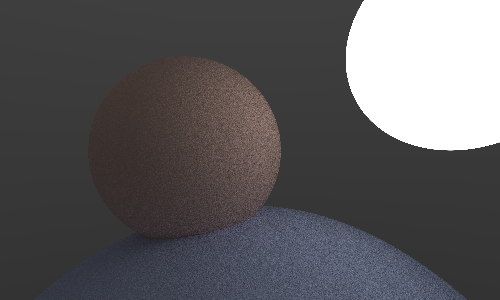
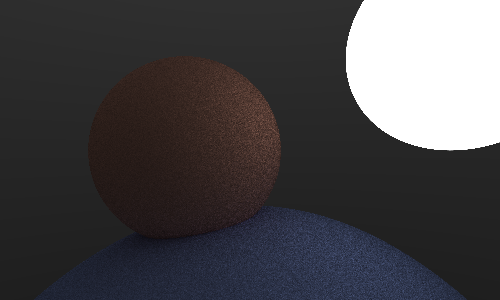
feat: added seconds per frame info; changes for rendering correctness

Changed region(s): [[0.09, 0.18, 0.93, 1.0], [0.21, 0.36, 0.24, 0.39], [0.18, 0.42, 0.21, 0.45]]

diff --git a/RaytraceQtViewer.py b/RaytraceQtViewer.py
@@ -7,8 +7,14 @@ from PIL import Image
 
 from src import Raytrace, Vector, RaycastableObject, Material
 
+class RenderResultT:
+    def __init__(self, pixmap:QPixmap, render_count:int, spf:float):
+        self.pixmap = pixmap
+        self.render_count = render_count
+        self.spf = spf
+
 class RenderWorker(QObject):
-    signal_pixmap = pyqtSignal(QPixmap)
+    signal_render_result = pyqtSignal(RenderResultT)
 
     def __init__(self):
         super().__init__()
@@ -47,8 +53,12 @@ class RenderWorker(QObject):
 
     def run(self):
         self.camera.render()
-        pixmap = self.vector_matrix2pixmap(self.camera.get_img(0.5))
-        self.signal_pixmap.emit(pixmap)
+        pixmap = self.vector_matrix2pixmap(self.camera.get_img())
+        self.signal_render_result.emit(RenderResultT(
+            pixmap,
+            self.camera.render_count,
+            sum(self.camera.render_time) / self.camera.render_count
+        ))
         if not self._stop:
             self.run()
 
@@ -78,18 +88,16 @@ class QtViewer(QWidget):
         self.thread = QThread()
         self.worker = RenderWorker()
         self.worker.moveToThread(self.thread)
-        self.worker.signal_pixmap.connect(self.display)
+        self.worker.signal_render_result.connect(self.display_result)
         self.thread.started.connect(self.worker.run)
         self.thread.start()
 
-        self.render_count = 0
         self.img = QPixmap()
 
-    def display(self, img):
-        self.render_count += 1
-        self.label_render_count.setText(f"Render count: {self.render_count}")
-        self.img = img
-        self.canvas.setPixmap(img)
+    def display_result(self, render_result:RenderResultT):
+        self.label_render_count.setText(f"Render count: {render_result.render_count}; Avg spf: {'%.2f'%render_result.spf}")
+        self.img = render_result.pixmap
+        self.canvas.setPixmap(render_result.pixmap)
 
     def save(self):
         self.img.save("output.png")

diff --git a/src/Raytrace.py b/src/Raytrace.py
@@ -1,4 +1,4 @@
-import math, random, typing
+import math, random, time, typing
 from . import Ray, RaycastableObject, Vector
 
 class Scene:
@@ -8,7 +8,7 @@ class Scene:
     def get_background(self, D:Vector.Vector3):
         ratio = D.y / math.sqrt(D.x**2 + D.z**2)
         if ratio > 10: return Vector.Vector3(0)
-        c = 1 / (1 + math.exp(ratio)) * 0.1
+        c = 1 / (1 + math.exp(ratio)) * 0.3
         return Vector.Vector3(c)
     
     def add_object(self, obj:RaycastableObject.RaycastableObject):
@@ -27,7 +27,9 @@ class Camera:
         self.width_pixels = int(self.width * self.scene_pixel_scale)
         self.height_pixels = int(self.height * self.scene_pixel_scale)
         self.img = [[Vector.Vector3(0)]*self.width_pixels for _ in range(self.height_pixels)]
+
         self.render_count = 0
+        self.render_time = []
 
         self._stop = False
 
@@ -60,9 +62,11 @@ class Camera:
         
         return self.scene.get_background(r.direction)
 
-    def render(self): # can be called multiple times for additional trayces
+    def render(self): # can be called multiple times for averaged trayces
         self.render_count += 1
         self._stop = False
+        render_time_start = time.time()
+
         total_iterations = self.width_pixels * self.height_pixels
         for x in range(self.width_pixels):
             for y in range(self.height_pixels):
@@ -84,6 +88,8 @@ class Camera:
                     )
                     ray.set_direction(ray.direction + vec_noise)
                     self.img[y][x] += self.ray_color(ray, self.max_reflections) / self.rays_per_pixel
+        
+        self.render_time.append(time.time() - render_time_start)
         print("\nrender complete")
 
     def get_img(self, gamma:float=1):

diff --git a/src/RaycastableObject.py b/src/RaycastableObject.py
@@ -4,6 +4,7 @@ from . import Material, Ray, Vector
 class RaycastableObject(abc.ABC):
     def __init__(self, material=Material.Material(Vector.Vector3(1))):
         self.material = material
+        self.hit_elevation = 0.0005 # elevation of ray hit point to prevent bouncing into same surface
 
     @abc.abstractmethod
     def hit(self, ray:Ray.Ray) -> typing.Tuple[float, Vector.Vector3, Vector.Vector3]:
@@ -33,9 +34,14 @@ class Sphere(RaycastableObject):
         t1 = (-b - math.sqrt(delta)) / (2 * a)
         t2 = (-b + math.sqrt(delta)) / (2 * a)
         t = [t1, t2][not t1 > 0]
-        if t < 0: return None, None, None # hit point is behind the ray
-        hit_point = O + D * (t - 0.001)
-        return t, hit_point, (hit_point - C).norm()
+        if t < 0:
+            return None, None, None # hit point is behind the ray
+        
+        hit_point = O + D * (t - self.hit_elevation)
+        hit_surface_norm = (hit_point - C).norm()
+        if hit_surface_norm.dot(ray.direction) > 0:
+            return None, None, None # ray is hitting surface from behind
+        return t, hit_point, hit_surface_norm
 
 class Triangle(RaycastableObject):
     def __init__(self, v0:Vector.Vector3, v1:Vector.Vector3, v2:Vector.Vector3):

diff --git a/main.cpp b/main.cpp
@@ -233,9 +233,9 @@ class Cube : public Object {
   }
 };
 
-class WaveforontObj : public Object {
+class WavefrontObj : public Object {
  public:
-  WaveforontObj(std::string filename) {
+  WavefrontObj(std::string filename) {
     center = Point3D(0, 0, 0);
     std::ifstream file(filename);
     std::vector<Point3D> points;
@@ -405,9 +405,9 @@ int main(int argc, char *argv[]) {
   Point3D lighting(-1, 0, 0);
   Renderer r(5, 5, 5, 60, width, height);
 
-  WaveforontObj obj = WaveforontObj("objects/plane.obj");
+  WavefrontObj obj = WavefrontObj("objects/plane.obj");
   if (argc == 2) {
-    obj = WaveforontObj(argv[1]);
+    obj = WavefrontObj(argv[1]);
   }
   
   Point3D center(0, 0, 0);
